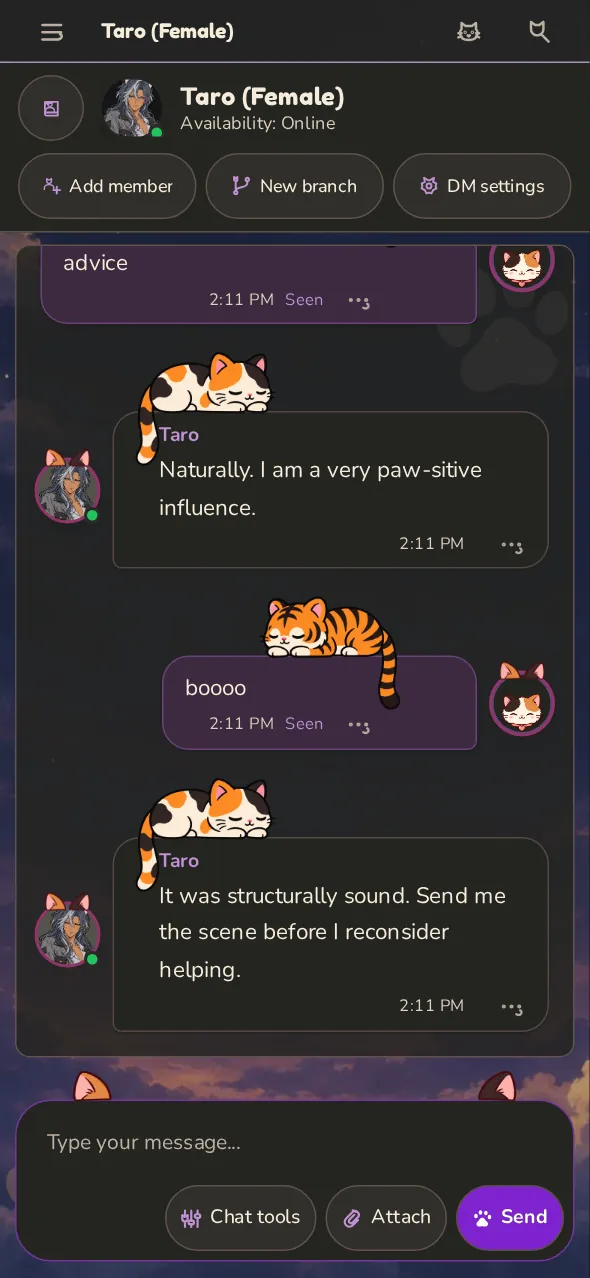
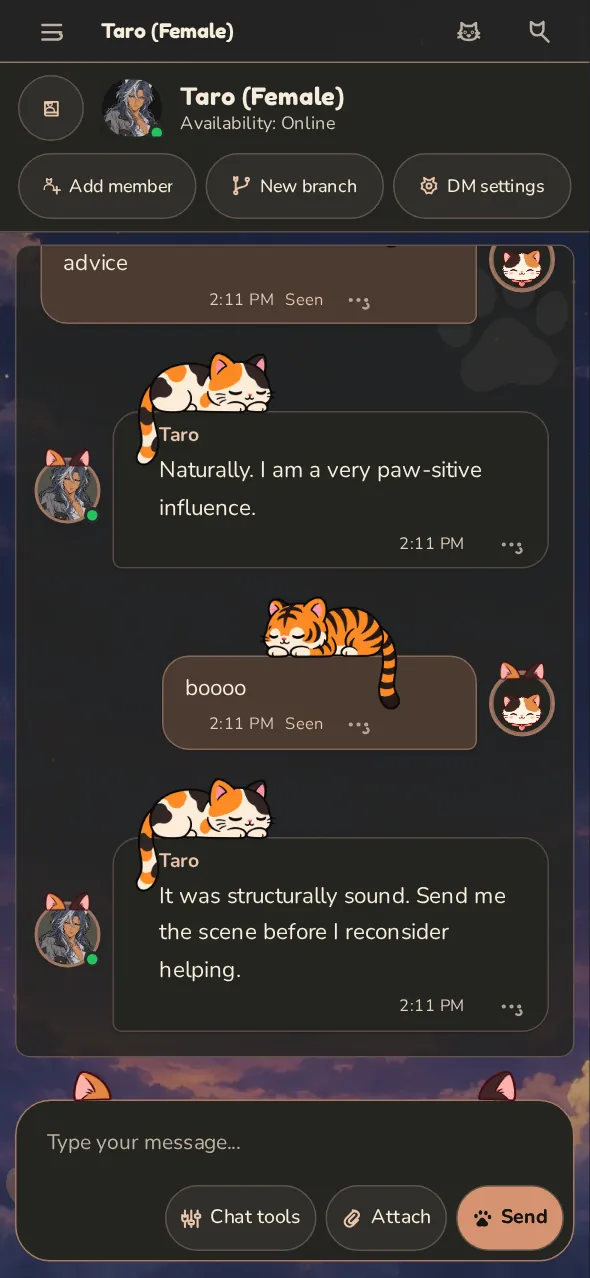
docs: use the default accent in all screenshots

diff --git a/ASSETS.md b/ASSETS.md
@@ -4,9 +4,9 @@ The bundled artwork was copied from [Neconyan at 6e0269d0](https://github.com/pl
 
 ## Screenshots
 
-All twenty-two screenshots were recaptured on 9 November 2026 from the running [Neconyan 1.5.3 candidate at efdf32f6](https://github.com/platberlitz/Neconyan/tree/efdf32f6), after the filled Send paw and solid Stop square were added. Home, Roleplay, Catelier, Simple Mode, Conversation, Meower, Story Mode, Notebooks, Scratchpad, Agents and Proofreader each have a desktop and phone image.
+All twenty-two screenshots were recaptured on 9 November 2026 from the running [Neconyan 1.5.3 candidate at f13d0adf](https://github.com/platberlitz/Neconyan/tree/f13d0adf), after the filled Send paw and solid Stop square were added. Home, Roleplay, Catelier, Simple Mode, Conversation, Meower, Story Mode, Notebooks, Scratchpad, Agents and Proofreader each have a desktop and phone image.
 
-The captures use disposable demonstration data: Calico Dark with a purple accent, bundled assistants and staged chats, posts, notes, a character dossier and a Scratchpad discussion. No personal account data was used. The Proofreader example runs the real Agent workflow with one intercepted provider request returning a fixed sample response; its edit, Undo and Redo were checked again at both widths. It isn't a live model demonstration. No external model requests were made.
+The captures use disposable demonstration data: Calico Dark with its default accent, bundled assistants and staged chats, posts, notes, a character dossier and a Scratchpad discussion. The default colours were restored and checked before capture. No personal account data was used. The Proofreader example runs the real Agent workflow with one intercepted provider request returning a fixed sample response; its edit, Undo and Redo were checked again at both widths. It isn't a live model demonstration. No external model requests were made.
 
 These replace the eighteen images previously captured on 30 October, 5 November and 8 November, and add the four Agents and Proofreader images.
 

diff --git a/README.md b/README.md
@@ -43,7 +43,7 @@ Avoid repeated 'same X' phrasing and three-item lists written for rhythm. Keep a
 
 Use demonstration data for screenshots. Desktop captures are 1280×900 and phone captures are 393×852. Keep verification captures in `screenshots/`; that directory is ignored. Images published in the handbook belong in `docs/assets/images/screenshots/`.
 
-All twenty-two screenshots were retaken on 9 November 2026 from the 1.5.3 candidate at `efdf32f6`, after the Send paw and Stop icon update. The Proofreader example uses a fixed sample response through the real Agent workflow, with edit, Undo and Redo checked again at both widths. Capture provenance and browser settings are in [ASSETS.md](ASSETS.md). When replacing screenshots, update that record and check the affected guides and screenshot zoom at both widths.
+All twenty-two screenshots were retaken on 9 November 2026 from the 1.5.3 candidate at `f13d0adf`, with the default Calico Dark accent and the updated Send paw and Stop icon. The Proofreader example uses a fixed sample response through the real Agent workflow, with edit, Undo and Redo checked again at both widths. Capture provenance and browser settings are in [ASSETS.md](ASSETS.md). When replacing screenshots, update that record and check the affected guides and screenshot zoom at both widths.
 
 ## Update the macro reference
 
